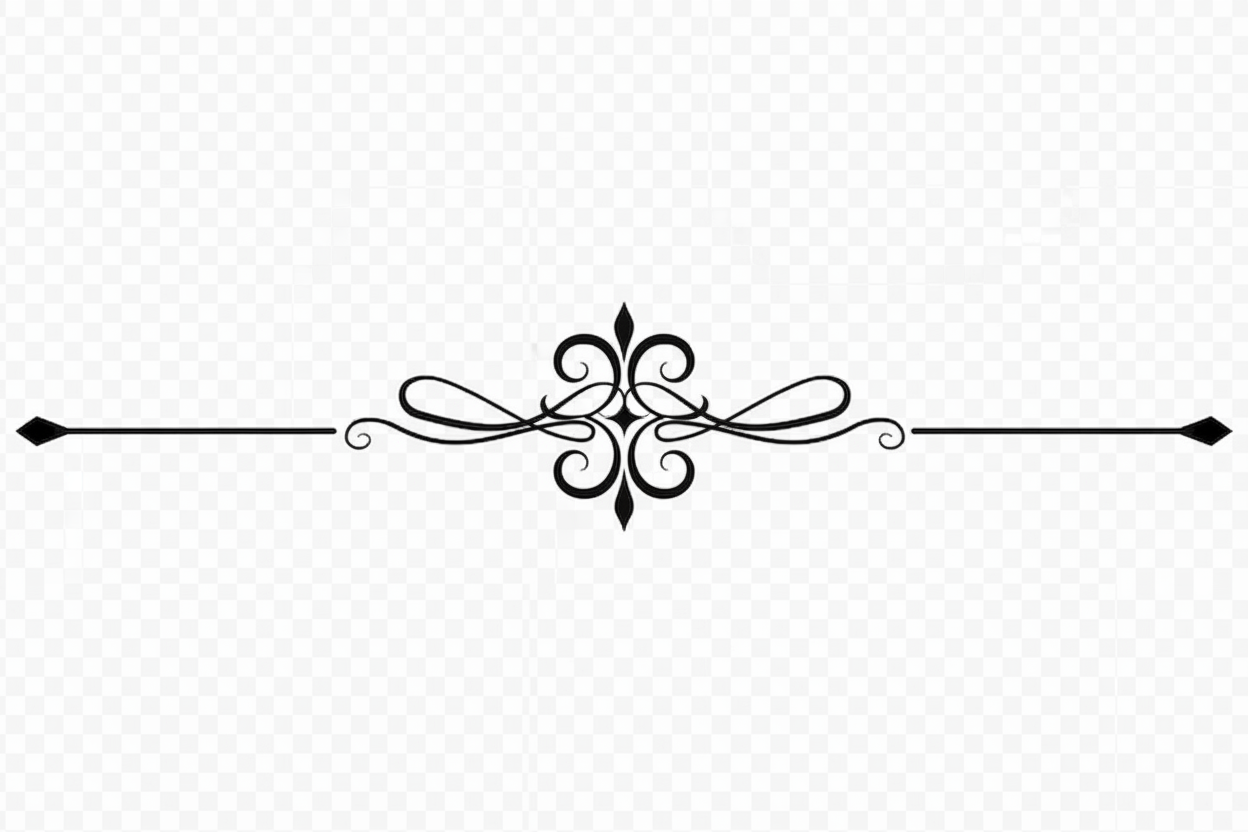
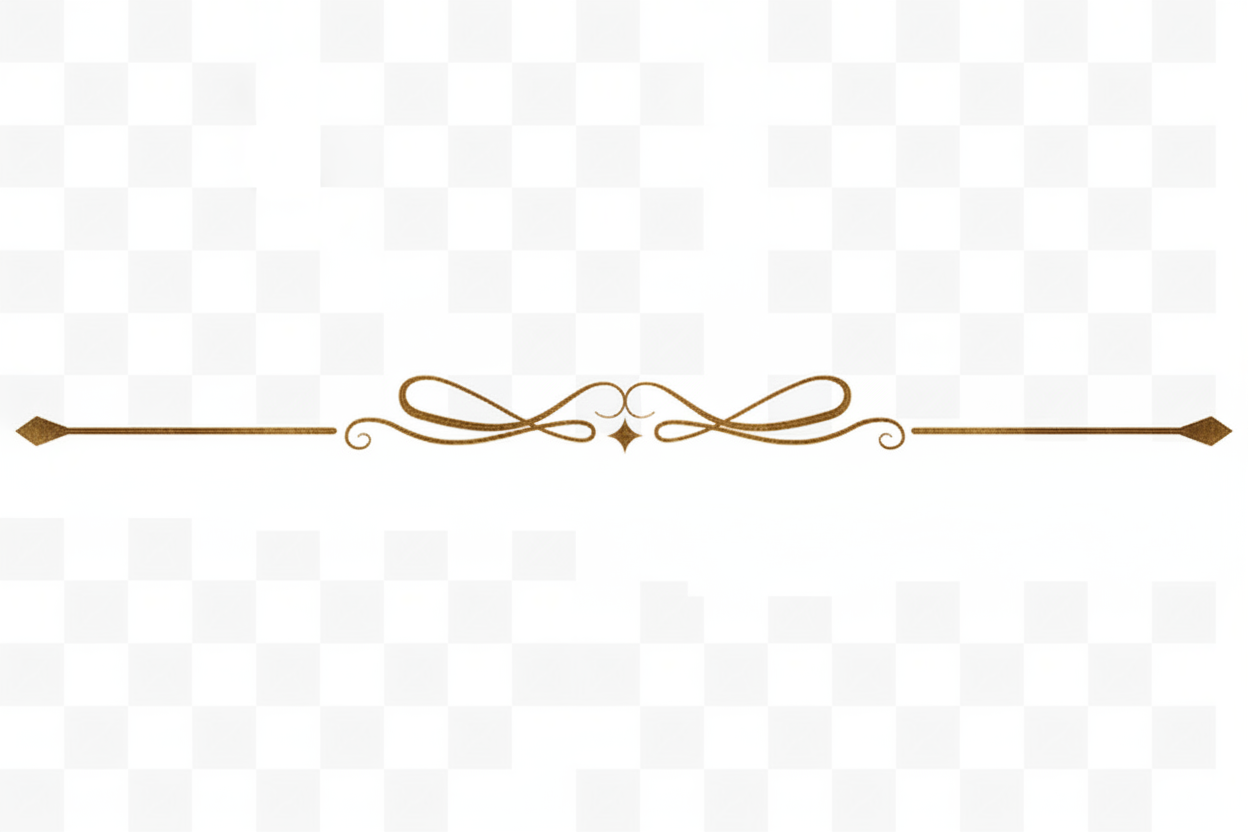
Changes

Changed region(s): [[0.0, 0.375, 1.0, 0.625]]

diff --git a/src/components/TraditionalUnderline.tsx b/src/components/TraditionalUnderline.tsx
@@ -7,9 +7,9 @@ interface TraditionalUnderlineProps {
 
 const TraditionalUnderline = ({ className = "", size = "md" }: TraditionalUnderlineProps) => {
   const sizeClasses = {
-    sm: "w-56 h-8",
-    md: "w-80 h-10",
-    lg: "w-96 h-12",
+    sm: "w-72 h-8",
+    md: "w-[400px] h-12",
+    lg: "w-[500px] h-14",
   };
 
   return (
@@ -17,10 +17,7 @@ const TraditionalUnderline = ({ className = "", size = "md" }: TraditionalUnderl
       <img
         src={decorativeUnderline}
         alt=""
-        className={`${sizeClasses[size]} object-contain opacity-80`}
-        style={{
-          filter: "sepia(100%) saturate(300%) brightness(90%) hue-rotate(10deg)",
-        }}
+        className={`${sizeClasses[size]} object-contain`}
         aria-hidden="true"
       />
     </div>
